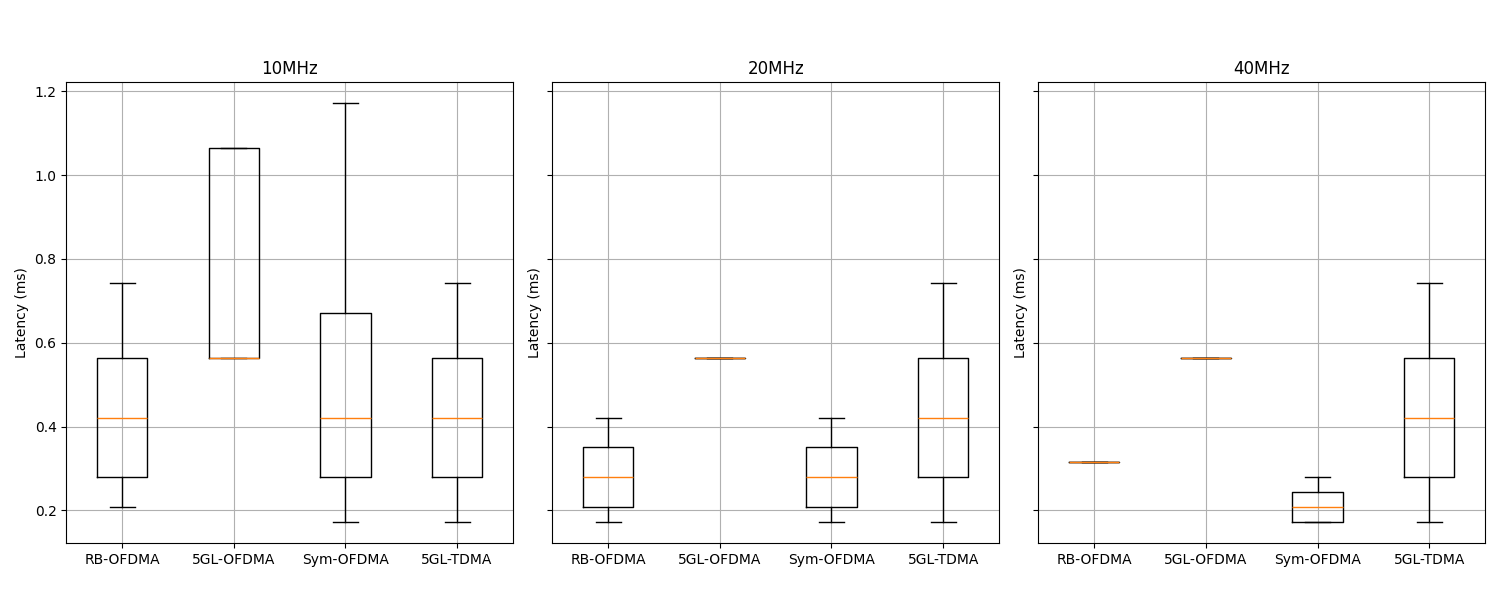
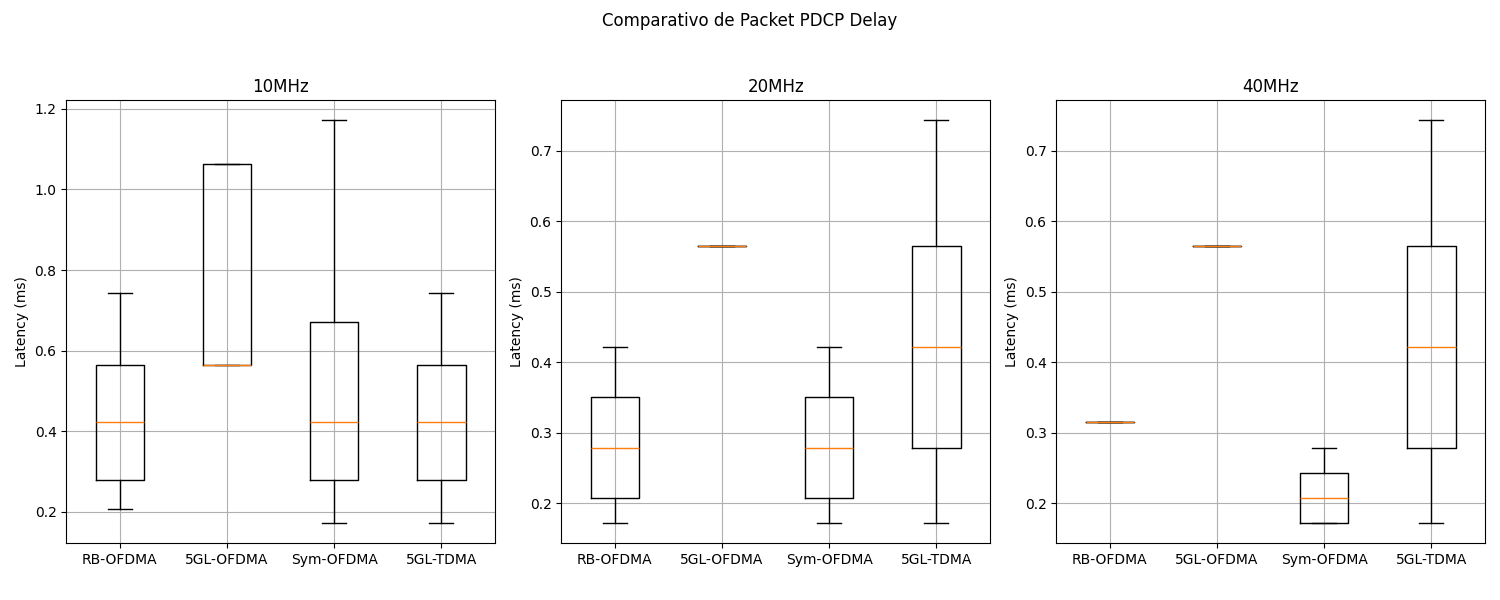
melhoria gráfico geral

diff --git a/metricas/geral/geral.py b/metricas/geral/geral.py
@@ -64,7 +64,7 @@ def gather_for_freq(metricas_dir: Path, freq_tag: str) -> Dict[str, np.ndarray]:
 
 def plot_all(metricas_dir: Path, out_file: Path, show: bool = False) -> None:
     labels = ["RB-OFDMA", "5GL-OFDMA", "Sym-OFDMA", "5GL-TDMA"]
-    fig, axes = plt.subplots(1, 3, figsize=(15, 6), sharey=True)
+    fig, axes = plt.subplots(1, 3, figsize=(15, 6))  # Removido sharey=True para ticks independentes
 
     for ax, freq in zip(axes, FREQS):
         data = gather_for_freq(metricas_dir, freq)
@@ -83,12 +83,12 @@ def plot_all(metricas_dir: Path, out_file: Path, show: bool = False) -> None:
         # For boxplot, if an array is empty replace with [np.nan] so labels align but will not show
         plot_data = [arr if arr.size else np.array([np.nan]) for arr in arrays_ms]
 
-        ax.boxplot(plot_data, labels=labels, showfliers=False)
+        ax.boxplot(plot_data, tick_labels=labels, showfliers=False)  # Usar tick_labels em vez de labels (deprecated)
         ax.set_title(freq)
         ax.set_ylabel("Latency (ms)")
         ax.grid(True)
 
-    plt.suptitle("") #"Packet PDCP Delay Comparison" / Comparativo de Latência
+    plt.suptitle("Comparativo de Packet PDCP Delay")  # Adicionado título
     plt.tight_layout(rect=[0, 0.03, 1, 0.95])
     out_file.parent.mkdir(parents=True, exist_ok=True)
     fig.savefig(out_file)
